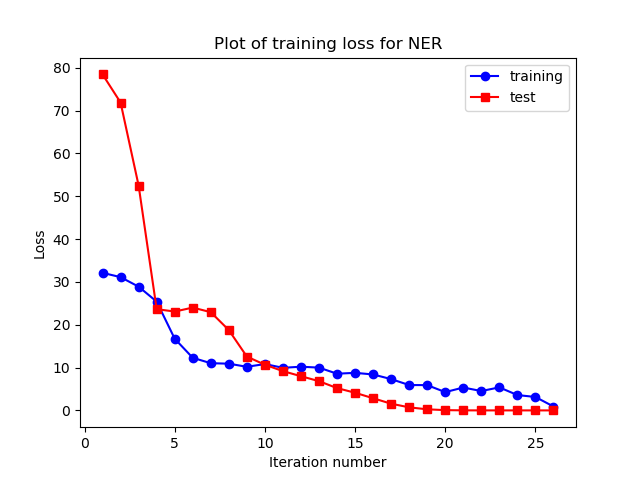
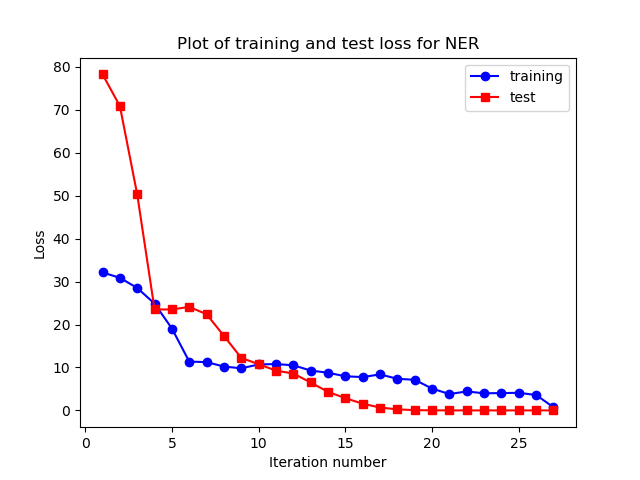
fixing name of plot for losses - minor cosmetic changes in code

diff --git a/named-entity-recognizer/src/train_ner_from_scratch.py b/named-entity-recognizer/src/train_ner_from_scratch.py
@@ -16,7 +16,7 @@ if __name__ == '__main__':
     #ner_model.train(list_training_data)
     ner_model.train_early_stop(list_train_data=list_training_data,
                                list_test_data=list_test_data,
-                               enhancement_iteration_factor=0.08,
+                               enhancement_iteration_factor=0.085,
                                use_mini_batch=False, verbose=False)
     # get dictionary of performance metrics for training
     dict_metrics_training = ner_model.predict(list_training_data)

diff --git a/named-entity-recognizer/src/ner_utils/train_evaluate.py b/named-entity-recognizer/src/ner_utils/train_evaluate.py
@@ -297,7 +297,7 @@ class CustomizedNer:
         plt.plot(list_iters, list_losses_train, 'b-o', label='training')
         plt.plot(list_iters, list_losses_test, 'r-s', label='test')
         plt.legend(loc='upper right', numpoints=1)
-        plt.title("Plot of training loss for NER")
+        plt.title("Plot of training and test loss for NER")
         plt.xlabel("Iteration number")
         plt.ylabel("Loss")
         plt.savefig('../plots/loss_vs_iteration.png')
